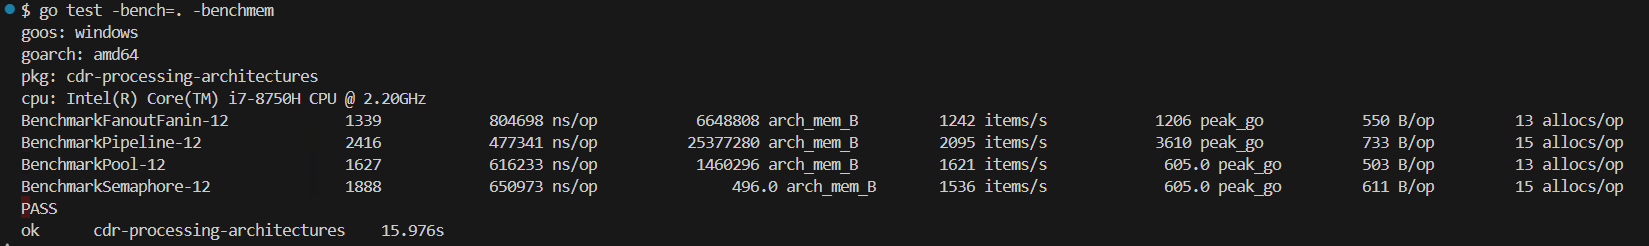
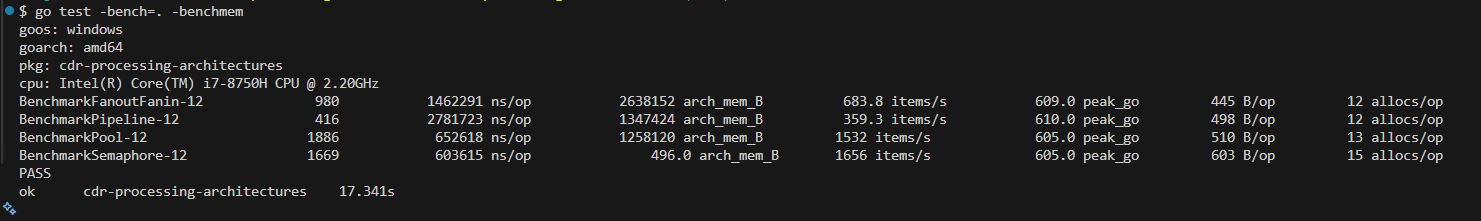
Equal goroutines for all patterns

diff --git a/pipeline.go b/pipeline.go
@@ -33,7 +33,7 @@ func runPipeline(ctx context.Context, in <-chan *CDR) <-chan *CDR {
 // 0. FAST: Calculate Duration
 // ---------------------------------------------------------
 func CalculateDuration(ctx context.Context, in <-chan *CDR) <-chan *CDR {
-	const numWorkers = 600
+	const numWorkers = 100
 
 	out := make(chan *CDR)
 	var wg sync.WaitGroup
@@ -75,7 +75,7 @@ func CalculateDuration(ctx context.Context, in <-chan *CDR) <-chan *CDR {
 // 1. SLOW DB: Call Direction
 // ---------------------------------------------------------
 func SetCallDirection(ctx context.Context, in <-chan *CDR) <-chan *CDR {
-	const numWorkers = 600
+	const numWorkers = 100
 
 	out := make(chan *CDR)
 	var wg sync.WaitGroup
@@ -123,7 +123,7 @@ func SetCallDirection(ctx context.Context, in <-chan *CDR) <-chan *CDR {
 // 2. MEMORY: Rate Zone Lookup
 // ---------------------------------------------------------
 func LookupRateZone(ctx context.Context, in <-chan *CDR) <-chan *CDR {
-	const numWorkers = 600
+	const numWorkers = 100
 
 	out := make(chan *CDR)
 	var wg sync.WaitGroup
@@ -170,7 +170,7 @@ func LookupRateZone(ctx context.Context, in <-chan *CDR) <-chan *CDR {
 // 3. VERY SLOW External API: Home Operator
 // ---------------------------------------------------------
 func FetchHomeOperator(ctx context.Context, in <-chan *CDR) <-chan *CDR {
-	const numWorkers = 600
+	const numWorkers = 100
 
 	out := make(chan *CDR)
 	var wg sync.WaitGroup
@@ -213,7 +213,7 @@ func FetchHomeOperator(ctx context.Context, in <-chan *CDR) <-chan *CDR {
 // 4. CPU: Anonymized ID (GDPR)
 // ---------------------------------------------------------
 func HashAnonymizedID(ctx context.Context, in <-chan *CDR) <-chan *CDR {
-	const numWorkers = 600
+	const numWorkers = 100
 
 	out := make(chan *CDR)
 	var wg sync.WaitGroup
@@ -257,7 +257,7 @@ func HashAnonymizedID(ctx context.Context, in <-chan *CDR) <-chan *CDR {
 // 5. NETWORK: Risk Score
 // ---------------------------------------------------------
 func CheckRiskScore(ctx context.Context, in <-chan *CDR) <-chan *CDR {
-	const numWorkers = 600
+	const numWorkers = 100
 	
 	out := make(chan *CDR)
 	var wg sync.WaitGroup

diff --git a/fanout_fanin.go b/fanout_fanin.go
@@ -16,7 +16,7 @@ func runFanoutFanin(ctx context.Context, in <-chan *CDR) <-chan *CDR {
 }
 
 func fanOut(ctx context.Context, in <-chan *CDR) []<-chan *CDR {
-	const numWorkers = 600
+	const numWorkers = 300
 
 	workerInputs := make([]chan *CDR, numWorkers)
 	workerOutputs := make([]<-chan *CDR, 0, numWorkers)
